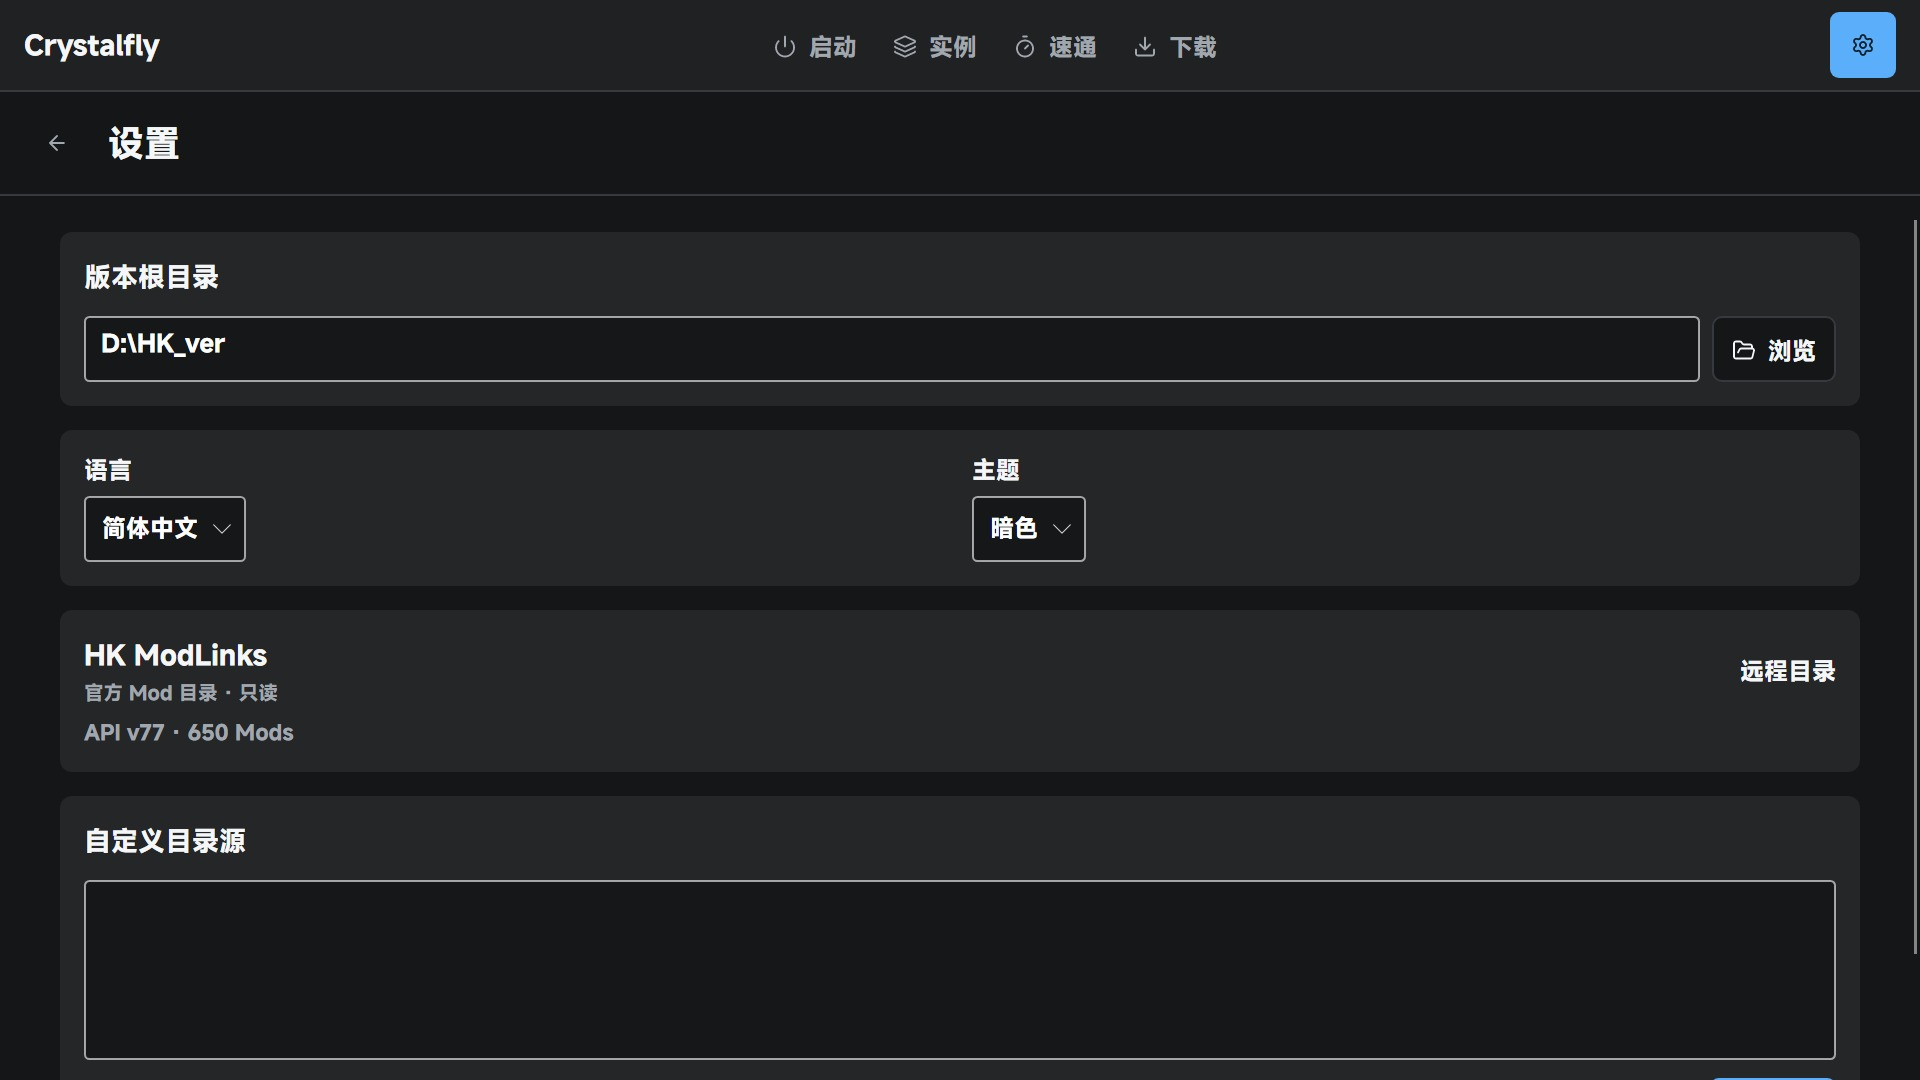
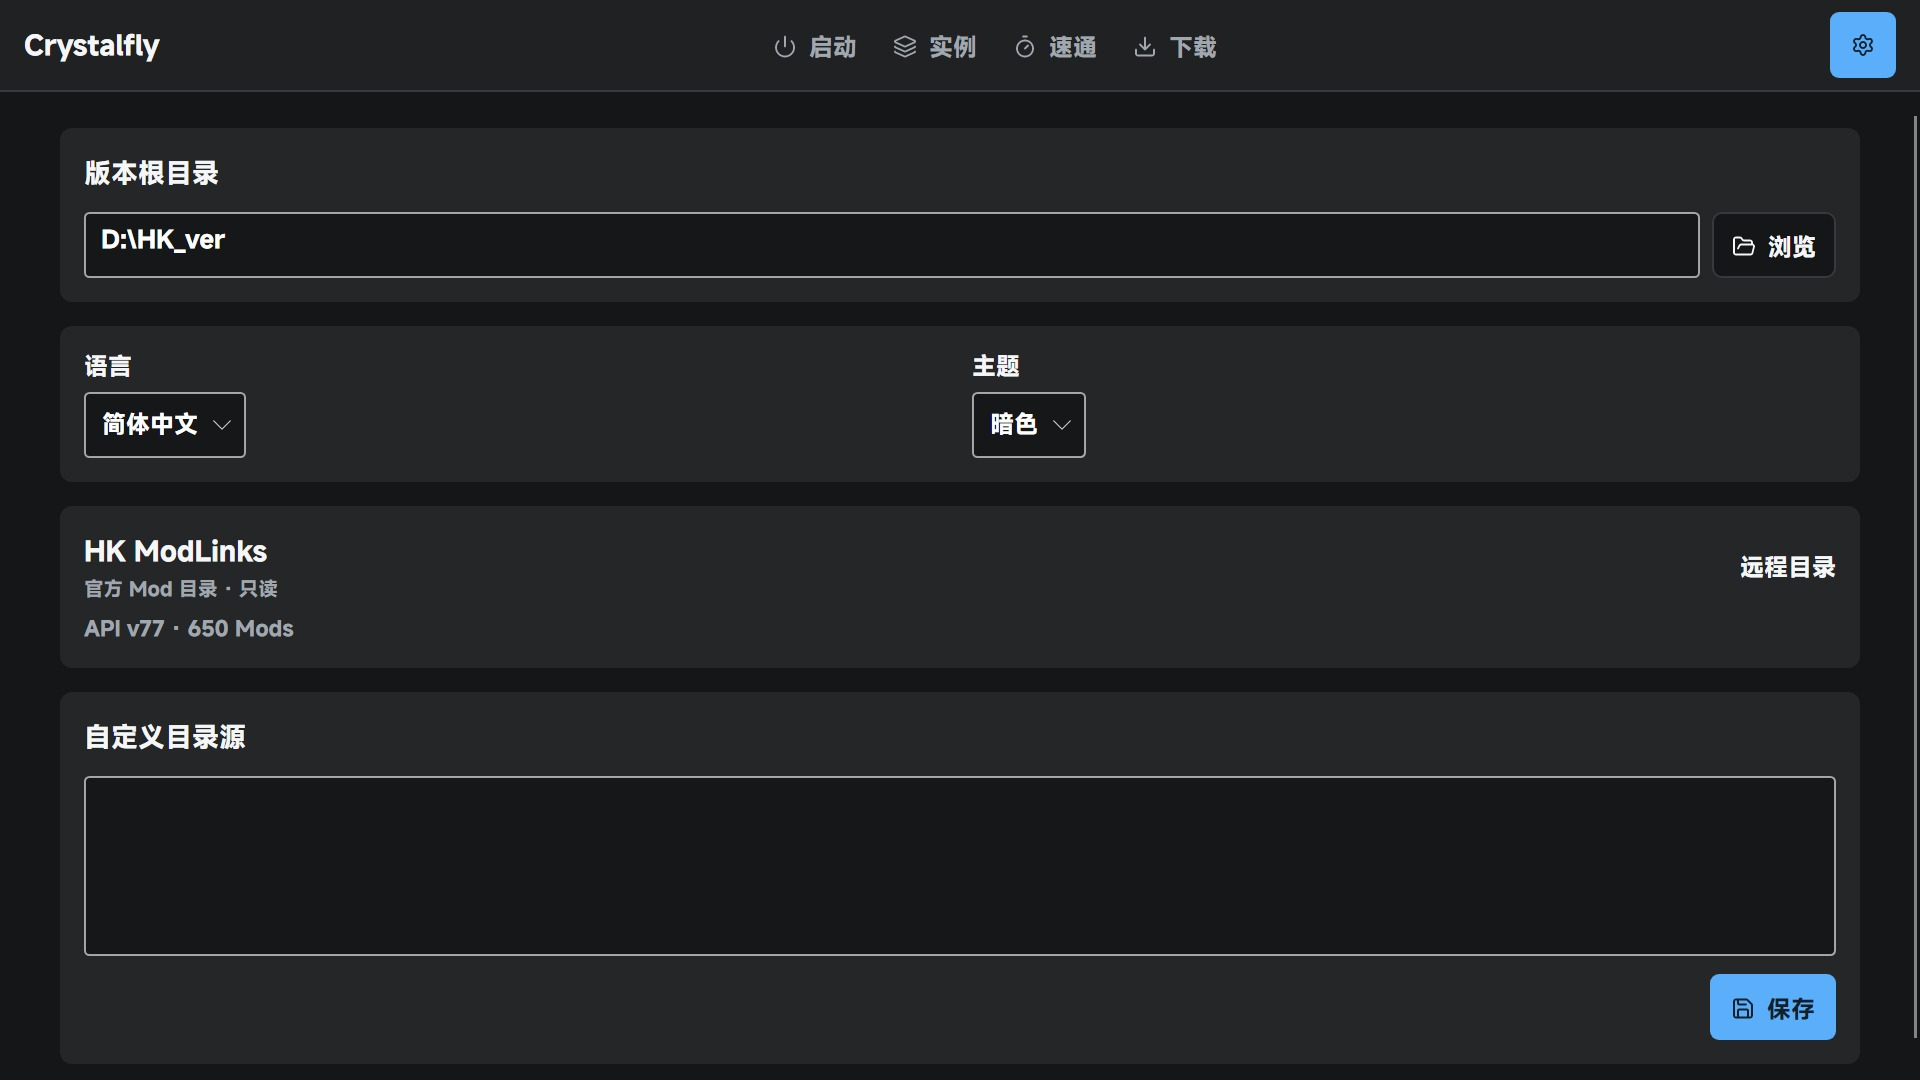
fix(ui): remove redundant page headers

diff --git a/tests/Crystalfly.App.Tests/Ui/LayoutRenderingTests.cs b/tests/Crystalfly.App.Tests/Ui/LayoutRenderingTests.cs
@@ -173,6 +173,35 @@ public sealed class LayoutRenderingTests
         }
     }
 
+    [AvaloniaTheory]
+    [InlineData("Versions")]
+    [InlineData("Manage")]
+    [InlineData("Speedrun")]
+    [InlineData("Downloads")]
+    [InlineData("Settings")]
+    public void Secondary_page_headers_are_removed(string page)
+    {
+        var viewModel = new MainViewModel(Path.Combine(Path.GetTempPath(), "crystalfly-ui", Guid.NewGuid().ToString("N")))
+        {
+            CurrentPage = page
+        };
+        var window = new MainWindow { Width = 1280, Height = 720 };
+        window.Show();
+        window.DataContext = viewModel;
+        Dispatcher.UIThread.RunJobs();
+
+        try
+        {
+            Assert.DoesNotContain(window.GetVisualDescendants()
+                .OfType<Border>(),
+                border => border.IsEffectivelyVisible && border.Classes.Contains("cfp-page-header"));
+        }
+        finally
+        {
+            CloseImmediately(window);
+        }
+    }
+
     [AvaloniaFact]
     public void Top_navigation_follows_visual_keyboard_order()
     {